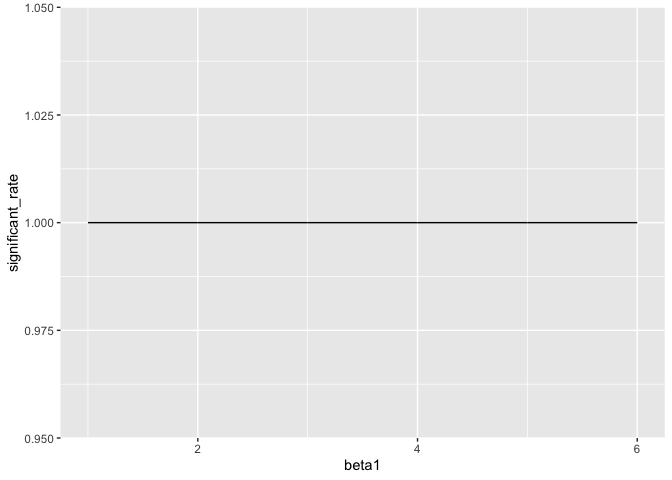
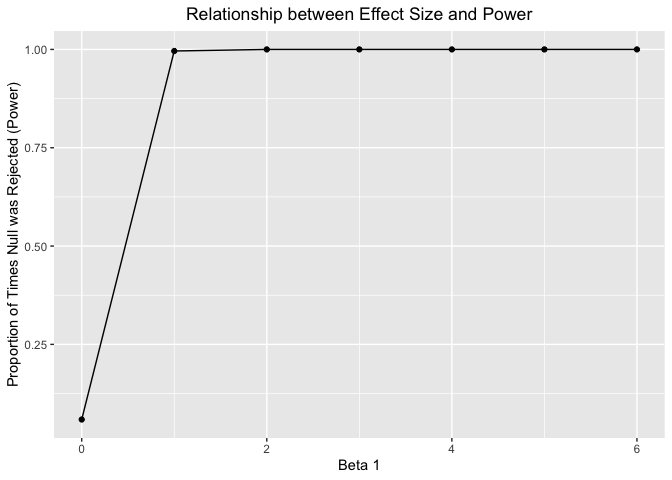
Editing first plot in problem 3

diff --git a/p8105_hw5_sm4594.md b/p8105_hw5_sm4594.md
@@ -45,45 +45,31 @@ iris_complete = map_df(iris_with_missing, replace_missing)
 
 # Problem 3
 
+Here, we run a simluation to explore power:
+
 ``` r
 sim_regression = function(n = 30, beta0 = 2, beta1 = 0) {
   
   sim_data = tibble(
-    x = rnorm(n, mean = 1, sd = 50),
-    y = beta0 + beta1 * x + rnorm(n, 0, 1)
+    x = rnorm(n, mean = 0, sd = 50),
+    y = beta0 + beta1 * x + rnorm(n, 0, 50)
   )
   
   ls_fit = lm(y ~ x, data = sim_data)
-
-  tidy(ls_fit)
-
-}
-
-output = vector("list", 1000)
-
-for (i in 1:1000) {
-  output[[i]] = sim_regression()
-}
-
-sim_results = bind_rows(output)
-```
-
-``` r
-sim_regression = function(n = 30, beta0 = 2, beta1 = 1) {
-  
-  sim_data = tibble(
-    x = rnorm(n, mean = 1, sd = 50),
-    y = beta0 + beta1 * x + rnorm(n, 0, 1)
-  )
-  
-  ls_fit = lm(y ~ x, data = sim_data)
-  tidy(ls_fit)
+  tidy(ls_fit) %>% 
+    filter(term == "x")
 
 }
 
+#run function for beta1 = 0 first
 sim_results = 
+  rerun(1000, sim_regression()) %>% 
+  bind_rows
+
+#Now run function for beta1 = 0,1,2,3,4,5,6
+sim_results1 = 
   tibble(
-    beta1 = c(1, 2, 3, 4, 5, 6)) %>% 
+    beta1 = c(0, 1, 2, 3, 4, 5, 6)) %>% 
   mutate(
     output_list = map(.x = beta1, ~rerun(1000, sim_regression(beta1 = .x))),
     estimate_dfs = map(output_list, bind_rows)) %>% 
@@ -92,16 +78,21 @@ sim_results =
 ```
 
 ``` r
-sim_results %>% 
-  filter(term == "x") %>% 
+sim_results1 %>% 
   mutate(reject = ifelse(p.value <= 0.05, "significant", "non-significant")) %>% 
+  group_by(beta1, reject) %>% 
+  summarize(significant_count = n()) %>% 
   filter(reject == "significant") %>% 
-  group_by(beta1) %>% 
-  mutate(significant_count = n()) %>% 
-  distinct(.keep_all = TRUE) %>%
   mutate(significant_rate = significant_count/1000) %>% 
   ggplot(aes(x = beta1, y = significant_rate)) + 
-  geom_line()
+  geom_line() +
+  geom_point() +
+  labs(
+    title = "Relationship between Effect Size and Power",
+    x = "Beta 1",
+    y = "Proportion of Times Null was Rejected (Power)"
+  ) +
+  theme(plot.title = element_text(hjust = 0.5))
 ```
 
 ![](p8105_hw5_sm4594_files/figure-gfm/pr0b3_first_plot-1.png)<!-- -->
